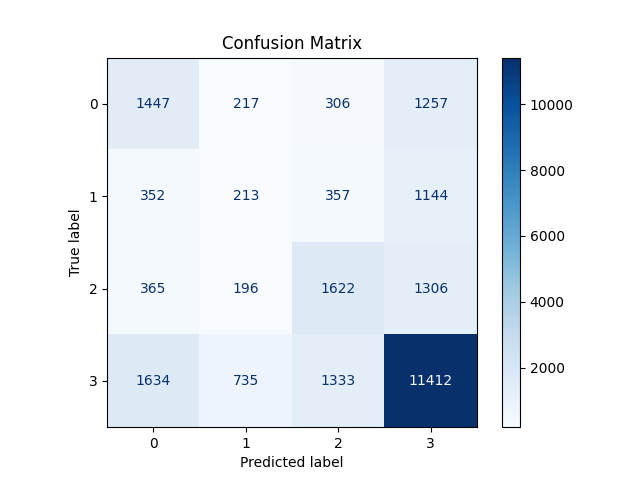
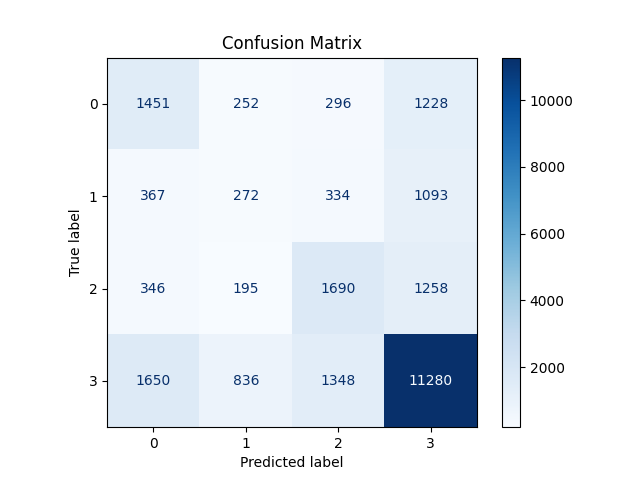
new architecture

diff --git a/model.py b/model.py
@@ -70,3 +70,78 @@ class PhoBERTMultiHead(nn.Module):
         logits = torch.stack(logits, dim=1)
 
         return logits  # (batch, aspects=4, sentiments=4)
+
+
+class MultiHeadSigmoid(nn.Module):
+    def __init__(self, backbone_model_name, num_aspects=4, num_sentiments=3):
+        """
+        Args:
+            num_aspects: 4 (lecturer, training_program, facility, others)
+            num_sentiments: 3 (negative, neutral, positive)
+        """
+        super().__init__()
+        self.num_aspects = num_aspects
+        self.num_sentiments = num_sentiments
+
+        self.backbone = AutoModel.from_pretrained(backbone_model_name)
+
+        # Đóng băng backbone
+        for param in self.backbone.parameters():
+            param.requires_grad = False
+
+        hidden_size = self.backbone.config.hidden_size
+
+        # Mỗi aspect có 1 Attention head riêng để tìm keyword quan trọng
+        self.aspect_attentions = nn.ModuleList(
+            [nn.Linear(hidden_size, 1) for _ in range(num_aspects)]
+        )
+
+        mid_dim = 128
+        self.sentiment_classifiers = nn.ModuleList(
+            [
+                nn.Sequential(
+                    nn.Linear(hidden_size, mid_dim),
+                    nn.BatchNorm1d(mid_dim),
+                    nn.ReLU(),
+                    nn.Dropout(p=0.3),
+                    nn.Linear(mid_dim, num_sentiments),  # Output: 3 nodes
+                )
+                for _ in range(num_aspects)
+            ]
+        )
+
+    def forward(self, input_ids, attention_mask):
+        # Lấy hidden states từ PhoBERT
+        outputs = self.backbone(
+            input_ids=input_ids, attention_mask=attention_mask
+        )
+        hidden = (
+            outputs.last_hidden_state
+        )  # Shape: (Batch, Seq_Len, Hidden_Size)
+
+        all_aspect_logits = []
+
+        for i in range(self.num_aspects):
+            # 1. Tính Attention cho aspect thứ i
+            # (B, T, H) -> (B, T, 1) -> (B, T)
+            attn_scores = self.aspect_attentions[i](hidden).squeeze(-1)
+
+            # Masking các token padding
+            attn_scores = attn_scores.masked_fill(attention_mask == 0, -1e9)
+
+            # Chuẩn hóa trọng số attention
+            weights = torch.softmax(attn_scores, dim=1)  # (B, T)
+
+            # 2. Tổng hợp vector đại diện cho aspect (Weighted Sum)
+            # (B, T, H) * (B, T, 1) -> sum theo T -> (B, H)
+            aspect_repr = torch.sum(hidden * weights.unsqueeze(-1), dim=1)
+
+            # 3. Phân loại sentiment cho aspect đó
+            # Output shape: (B, 3) đại diện cho [Neg, Neu, Pos]
+            logit = self.sentiment_classifiers[i](aspect_repr)
+            all_aspect_logits.append(logit)
+
+        # Gộp lại thành tensor duy nhất: (Batch, 4, 3)
+        logits = torch.stack(all_aspect_logits, dim=1)
+
+        return logits

diff --git a/data.py b/data.py
@@ -64,8 +64,7 @@ print(ds_segmented["test"][0])
 
 
 def preprocess_function(examples):
-    # IMPORTANT: Ensure examples["sentence"] is ALREADY word-segmented
-
+    # Tokenize câu đầu vào
     model_inputs = tokenizer(
         examples["sentence"],
         padding=False,
@@ -73,21 +72,27 @@ def preprocess_function(examples):
         max_length=256,
     )
 
-    labels = []
+    all_labels = []
 
+    # Giả sử:
+    # examples["topic"] là list của các list: [[0, 2], [1], ...]
+    # examples["sentiment"] là list của các list: [[2, 0], [1], ...] (đã bỏ nhãn 'none')
     for topics, sentiments in zip(examples["topic"], examples["sentiment"]):
 
-        # Create the base label list (e.g., [0, 0, 0, 0])
-        aspect_labels = [sentiment2idx["none"]] * len(idx2topic)
+        # 1. Tạo ma trận nhãn toàn số 0: (num_aspects=4, num_sentiments=3)
+        # Hàng: Lecturer, Program, Facility, Others
+        # Cột: Neg, Neu, Pos
+        label_matrix = [[0.0] * 3 for _ in range(4)]
 
-        # Loop through both lists at the same time
+        # 2. Điền số 1 vào đúng vị trí Aspect + Sentiment xuất hiện
         for t, s in zip(topics, sentiments):
-            # Map specific sentiment 's' to specific topic 't'
-            aspect_labels[int(t)] = int(s)
+            topic_idx = int(t)
+            sentiment_idx = int(s)
+            label_matrix[topic_idx][sentiment_idx] = 1.0
 
-        labels.append(aspect_labels)
+        all_labels.append(label_matrix)
 
-    model_inputs["labels"] = labels
+    model_inputs["labels"] = all_labels
     return model_inputs
 
 

diff --git a/train.py b/train.py
@@ -2,6 +2,7 @@ import os
 import argparse
 import json
 import torch
+import torch.nn as nn
 from torch.utils.data import DataLoader, Subset
 
 from transformers import DataCollatorWithPadding
@@ -11,7 +12,8 @@ from data import train_dataset, val_dataset
 
 from model import PhoBERTMultiHead
 from trainer import train_epoch, eval_epoch
-from utils import calculate_alpha
+
+# from utils import calculate_alpha
 from record import upload_blob
 from preprocess import tokenizer
 
@@ -53,10 +55,11 @@ def main(args):
             print(name)
 
     optimizer = torch.optim.AdamW(model.parameters(), lr=args.learning_rate)
+    criterion = nn.BCEWithLogitsLoss()
 
-    alpha, counts = calculate_alpha(train_data, device=device)
-    print(f"Class counts: {counts}")
-    print(f"Focal loss alpha: {alpha}")
+    # alpha, counts = calculate_alpha(train_data, device=device)
+    # print(f"Class counts: {counts}")
+    # print(f"Focal loss alpha: {alpha}")
     best_val_loss = float("inf")
     patience_counter = 0
     train_losses = []
@@ -66,9 +69,11 @@ def main(args):
 
         print(f"\nEpoch {epoch+1}")
 
-        train_loss = train_epoch(model, train_loader, optimizer, alpha, device)
+        train_loss = train_epoch(
+            model, train_loader, optimizer, criterion, device
+        )
 
-        val_loss = eval_epoch(model, val_loader, alpha, device)
+        val_loss = eval_epoch(model, val_loader, criterion, device)
 
         print("Train loss:", train_loss)
         print("Val loss:", val_loss)

diff --git a/trainer.py b/trainer.py
@@ -1,9 +1,7 @@
 import torch
-from utils import adapt_shape
-from loss import focal_loss
 
 
-def train_epoch(model, dataloader, optimizer, alpha, device):
+def train_epoch(model, dataloader, optimizer, criterion, device):
     model.train()
 
     total_loss = 0
@@ -16,10 +14,7 @@ def train_epoch(model, dataloader, optimizer, alpha, device):
             input_ids=batch["input_ids"],
             attention_mask=batch["attention_mask"],
         )
-
-        logits, targets = adapt_shape(outputs, batch["labels"])
-
-        loss = focal_loss(logits, targets, alpha=alpha)
+        loss = criterion(outputs, batch["labels"])
 
         optimizer.zero_grad()
         loss.backward()
@@ -33,7 +28,7 @@ def train_epoch(model, dataloader, optimizer, alpha, device):
     return total_loss / len(dataloader)
 
 
-def eval_epoch(model, dataloader, alpha, device):
+def eval_epoch(model, dataloader, criterion, device):
 
     model.eval()
 
@@ -49,10 +44,7 @@ def eval_epoch(model, dataloader, alpha, device):
                 input_ids=batch["input_ids"],
                 attention_mask=batch["attention_mask"],
             )
-
-            logits, targets = adapt_shape(outputs, batch["labels"])
-
-            loss = focal_loss(logits, targets, alpha=alpha)
+            loss = criterion(outputs, batch["labels"])
 
             total_loss += loss.item()
 

diff --git a/utils.py b/utils.py
@@ -2,41 +2,18 @@ import torch
 from collections import Counter
 
 
-def adapt_shape(outputs, labels):
-
-    B, A, C = outputs.shape
-
-    logits = outputs.view(B * A, C)
-    targets = labels.view(B * A)
-
-    return logits, targets
-
-
 def calculate_alpha(dataset, num_classes=4, device="cpu"):
-
     all_labels = []
-
     for i in range(len(dataset)):
         labels = dataset[i]["labels"]
         all_labels.extend(labels.tolist())
 
-    counts = Counter(all_labels)
-    total = sum(counts.values())
-
+    class_counts = Counter(all_labels)
     alpha = []
-
     for i in range(num_classes):
-        class_count = counts.get(i, 1)  # avoid division by 0
-        weight = 1.0 / class_count
+        weight = 1.0 / class_counts[i]
         alpha.append(weight)
 
     alpha = torch.tensor(alpha, dtype=torch.float32)
-
-    # normalize (so sum = num_classes or 1)
     alpha = alpha / alpha.sum()
-
-    # manually reduce "none" class (class 3)
-    alpha[3] *= 0.3  # tune (0.1 ~ 0.5 depending on how much ignorance)
-    alpha = alpha / alpha.sum()
-
-    return alpha.to(device), counts
+    return alpha.to(device), class_counts

diff --git a/config.py b/config.py
@@ -14,5 +14,5 @@ idx2topic = {
     2: "facility",
     3: "others",
 }
-idx2sentiment = {0: "negative", 1: "neutral", 2: "positive", 3: "none"}
+idx2sentiment = {0: "negative", 1: "neutral", 2: "positive"}
 sentiment2idx = {v: k for k, v in idx2sentiment.items()}

diff --git a/config_test.py b/config_test.py
@@ -1,2 +1,2 @@
-TEST_MODEL_NAME = "absa-training-1a515eb_vnsf-44.pth"
-history_path = "absa-training-1a515eb_loss_history.json"
+TEST_MODEL_NAME = "absa-training-b36cad8_vnsf-44.pth"
+history_path = "absa-training-b36cad8_loss_history.json"

diff --git a/calculate_metrics.py b/calculate_metrics.py
@@ -76,5 +76,6 @@ with torch.no_grad():
 preds = torch.cat(all_preds)
 labels = torch.cat(all_labels)
 
+print(f"{TEST_MODEL_NAME}")
 metrics = compute_metrics(preds, labels)
 print(metrics)
